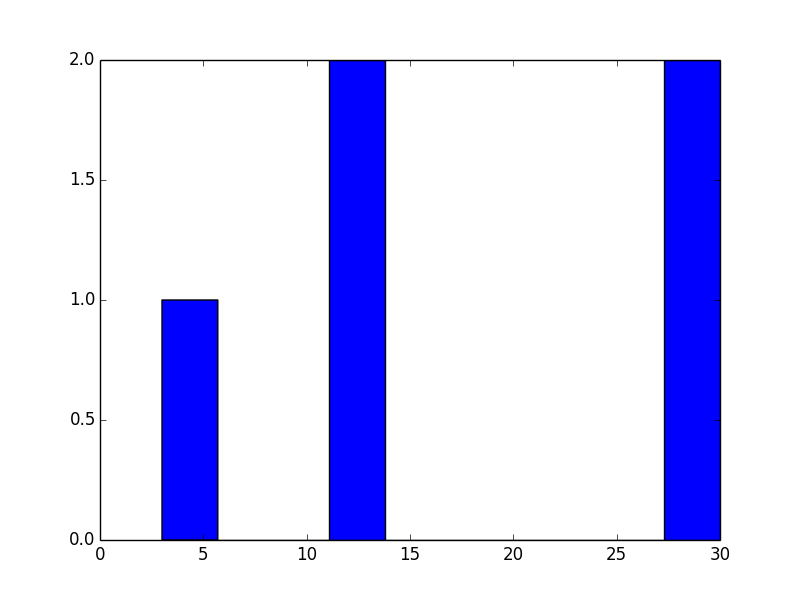
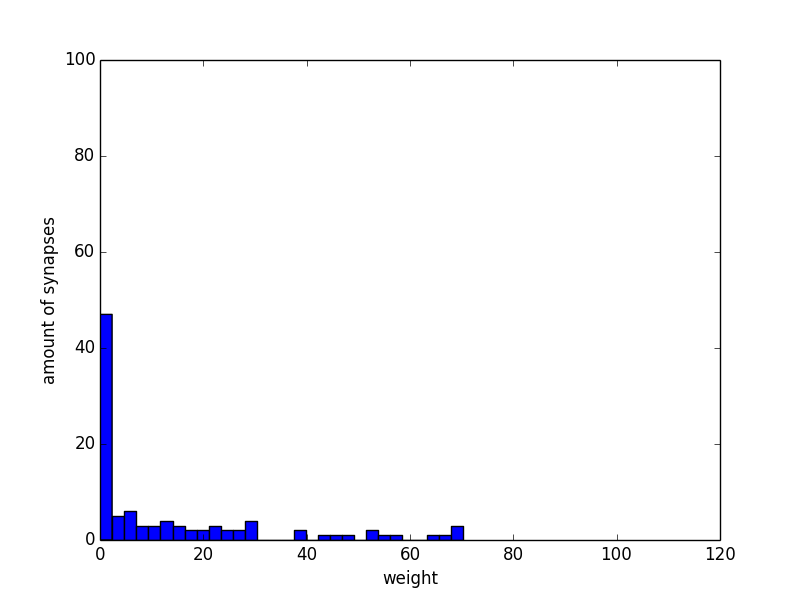
upd

diff --git a/py/little_weight_analyser.py b/py/little_weight_analyser.py
@@ -19,17 +19,55 @@ def plotWeigthHistogram(_arr, _fi = [1], _colnum = 10, _comm = ''):
     pl.figure(_fi[0])
     pl.clf()
     pl.hist(_arr, _colnum)
+    pl.xlabel('weight')
+    pl.ylabel('amount of synapses')
+    pl.axis([0, 120, 0, 100])
     pl.savefig('fig' + str(_fi[0]) + _comm + '.png')
     _fi[0] += 1
 
+def getEvolutionOfWeights(_step, _max_files):
+    times = [int(i) for i in pl.linspace(0, _step * (_max_files-1), _max_files) ]
+    difs = []
+    wtar = importWeightsAsArray('../data/weight_target.txt')
+
+    for i in times:
+        w = importWeightsAsArray('../data/we/weight_'+str(i)+'.txt')
+        difs.append(calculateDifferenceOfWeigths(wtar, w))
+    return [times, difs]
+
+def pltSomePlot(_x, _y, _fi = [1], _comm = '', _xlabel = '', _ylabel = ''):
+    pl.figure(_fi[0])
+    pl.clf()
+    pl.plot(_x, _y)
+    pl.xlabel(_xlabel)
+    pl.ylabel(_ylabel)
+    pl.axis([0, max(_x), 0, 1])
+    pl.savefig('fig' + str(_fi[0]) + _comm + '.png')
+
+    _fi[0] += 1
+
+def calcAPlotMainPoints(_fig_iter):
+    trg = importWeightsAsArray('../data/weight_target.txt')
+    stw = importWeightsAsArray('../data/weight_2sim.txt')
+    wfi = importWeightsAsArray('../data/weight_final.txt')
+
+    plotWeigthHistogram(trg, _fig_iter, 30, '_target_weights')
+    plotWeigthHistogram(stw, _fig_iter, 30, '_new_gamma_weights')
+    plotWeigthHistogram(wfi, _fig_iter, 30, '_final_weights')
+
+    print 'Difference between target and start 2: ',
+    print calculateDifferenceOfWeigths(trg, stw)
+    print 'Difference between target and end 2: ',
+    print calculateDifferenceOfWeigths(trg, wfi)
+
+def calcAPlotAllOutput(_fig_iter):
+    [ti, di] = getEvolutionOfWeights(100, 81)
+    pltSomePlot(ti, di, _fig_iter, 'change of weight through time',
+     'time, ms', 'weight difference from target')
+
 def wa():
     fig_iter = [1]
-    trg = importWeightsAsArray('../data/weight_1.txt')
-    stw = importWeightsAsArray('../data/weight_2.txt')
-    cur = importWeightsAsArray('../data/weight_3.txt')
-
-    plotWeigthHistogram(trg, fig_iter, 10, '_starting_weights')
-    plotWeigthHistogram(stw, fig_iter, 10, '_new_weights')
-    plotWeigthHistogram(cur, fig_iter, 10, '_final_weights')
-
-    print calculateDifferenceOfWeigths(trg, stw)
+    calcAPlotMainPoints(fig_iter)
+    calcAPlotAllOutput(fig_iter)
+    pl.show()
+    print '%d plots created' %fig_iter[0]

diff --git a/src/main.cpp b/src/main.cpp
@@ -6,6 +6,11 @@
 #include "vfdistributions.h"
 #include "vfdiscrete.h"
 
+#include <iomanip>
+#include <locale>
+#include <sstream>
+#include <string>
+
 using namespace std;
 
 int main(){
@@ -56,7 +61,7 @@ int main(){
     std::cout<<"\nThird rand: "<<rand()<<std::endl;
 
     storage->closeOutputFile();
-    storage->saveWeights("data/weight_1.txt");
+    storage->saveWeights("data/weight_target.txt");
     /// LOL**********************************************************************
     cout<<"\n\n\tStarting simulation. AGAIN\n";
     //************
@@ -67,7 +72,7 @@ int main(){
     storage->createSynapseStimulation();
     std::cout<<"\nSecond rand: "<<rand()<<std::endl;
     //************
-    storage->saveWeights("data/weight_2.txt");
+    storage->saveWeights("data/weight_2sim.txt");
 
     for(storage->time_now = 0.0; \
         storage->time_now < storage->length_of_simulation ;\
@@ -79,16 +84,22 @@ int main(){
         storage->evolveAllSynapses();
         storage->outputChangingData();
 
+        if(vf_discrete::inBetween(storage->time_now, 100, storage->dt)){
+            storage->saveWeights("data/we/weight_"+\
+                static_cast<ostringstream*>( &(ostringstream() << storage->time_now) )->str() \
+                +".txt");
+        }
+
         cout<<"Finished "<<fixed<<(storage->time_now)/ \
                                   (storage->length_of_simulation)<<"\r";
     }
     std::cout<<"\nThird rand: "<<rand()<<std::endl;
 
-    storage->saveWeights("data/weight_3.txt");
+    storage->saveWeights("data/weight_final.txt");
     storage->closeOutputFile();
 
     cout<<"Finished 1.00000"<<endl<<"Press RETURN to exit..."<<endl;
-    storage->test();
+    // storage->test();
     cin.ignore();
     return 0;
 }

diff --git a/src/simulation.cpp b/src/simulation.cpp
@@ -27,7 +27,7 @@ int SimulationSingleton::resetNetwork(){
 
     svscount = 0;
     trig12 = 1;
-    Inoise2[2] = 0;
+    // Inoise2[2] = 0;
 }
 
 int SimulationSingleton::saveWeights(std::string _a){
@@ -472,7 +472,7 @@ int SimulationSingleton::sendNeuralNoise(){
     }
 // std::cout<<"\nIAMALIVE"<<time_now - svspikes4secstim[svscount]<<std::endl;
     if(trig12 && svspikes4secstim[svscount] > 0 &&
-        time_now - svspikes4secstim[svscount] >0){
+        time_now - svspikes4secstim[svscount] >-dt){
         svscount++;
         // std::cout<<"\nIAMALIVE\n"<<time_now<<std::endl;
         neuron_array[2]->V = 30;
@@ -544,7 +544,7 @@ void SimulationSingleton::saveSpike(int n){
     spikes_time[spikes_resent] = time_now;
     spikes_numbers[spikes_resent] = n;
     spikes_resent++;
-    std::cout<<"\nIAMALIVE spike"<<time_now<<std::endl;
+    // std::cout<<"\nIAMALIVE spike"<<time_now<<std::endl;
     if(!trig12){
         svspikes4secstim[svscount] = time_now;
         svscount++;

diff --git a/src/synapse.cpp b/src/synapse.cpp
@@ -786,9 +786,11 @@ void SynapseKostya::setData(int pre, int pos, int preex, int posex, double dt){
         tau_one = 1;
         toggler = 0;
     } else {
-        std::default_random_engine generator(rand());
-        std::gamma_distribution<double> distribution (9.0,6.3);
-        w = MIN(distribution(generator), w_max);
+        if(exc){
+            std::default_random_engine generator(rand());
+            std::gamma_distribution<double> distribution (9.0,6.3);
+            w = MIN(distribution(generator), w_max);
+        }
         toggler = 1;
     }
 
@@ -811,7 +813,7 @@ double SynapseKostya::evolve(double dt, double time, double Vpre, double Vpost){
         R = 1 + ( R1 - u1 * R1 - 1) * exp( - h / D);
 
         // stdp
-        if(toggler){
+        if(toggler && exc){
             h = last_spiked_post - last_spiked;
             if(h > 0){
                 w = MIN( w_max , w1 + WP * exp( - h / taup ));
